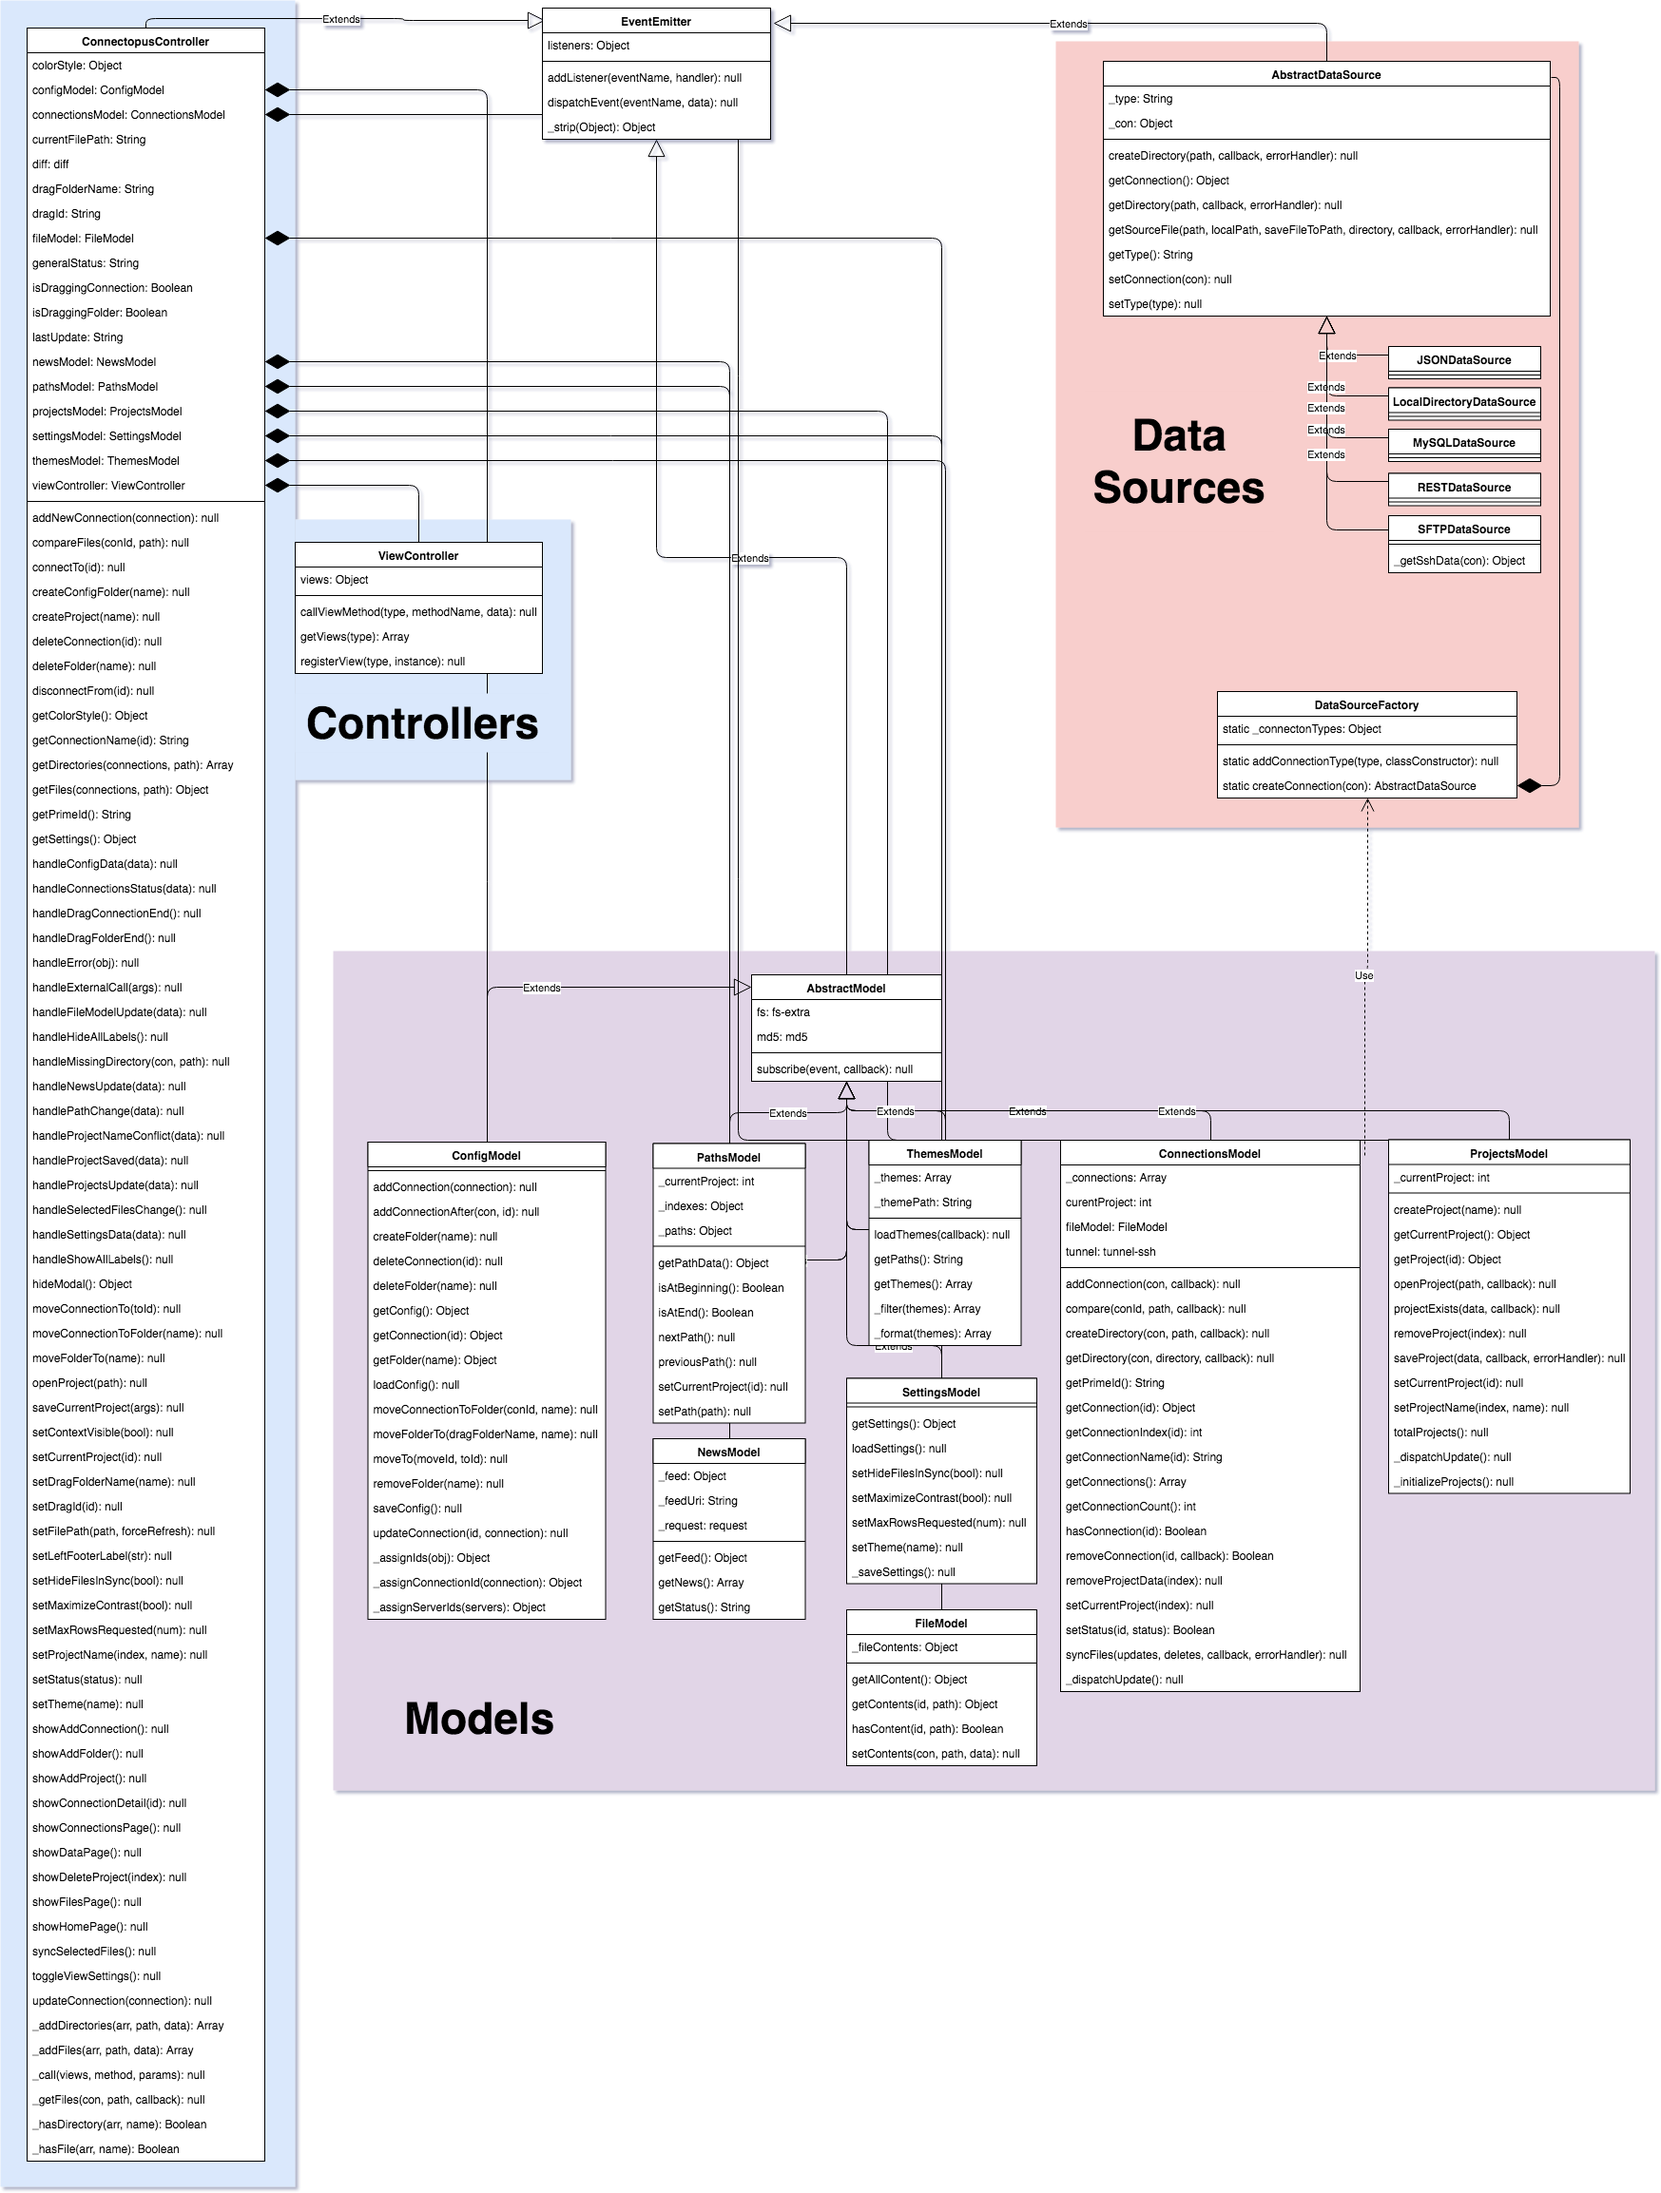
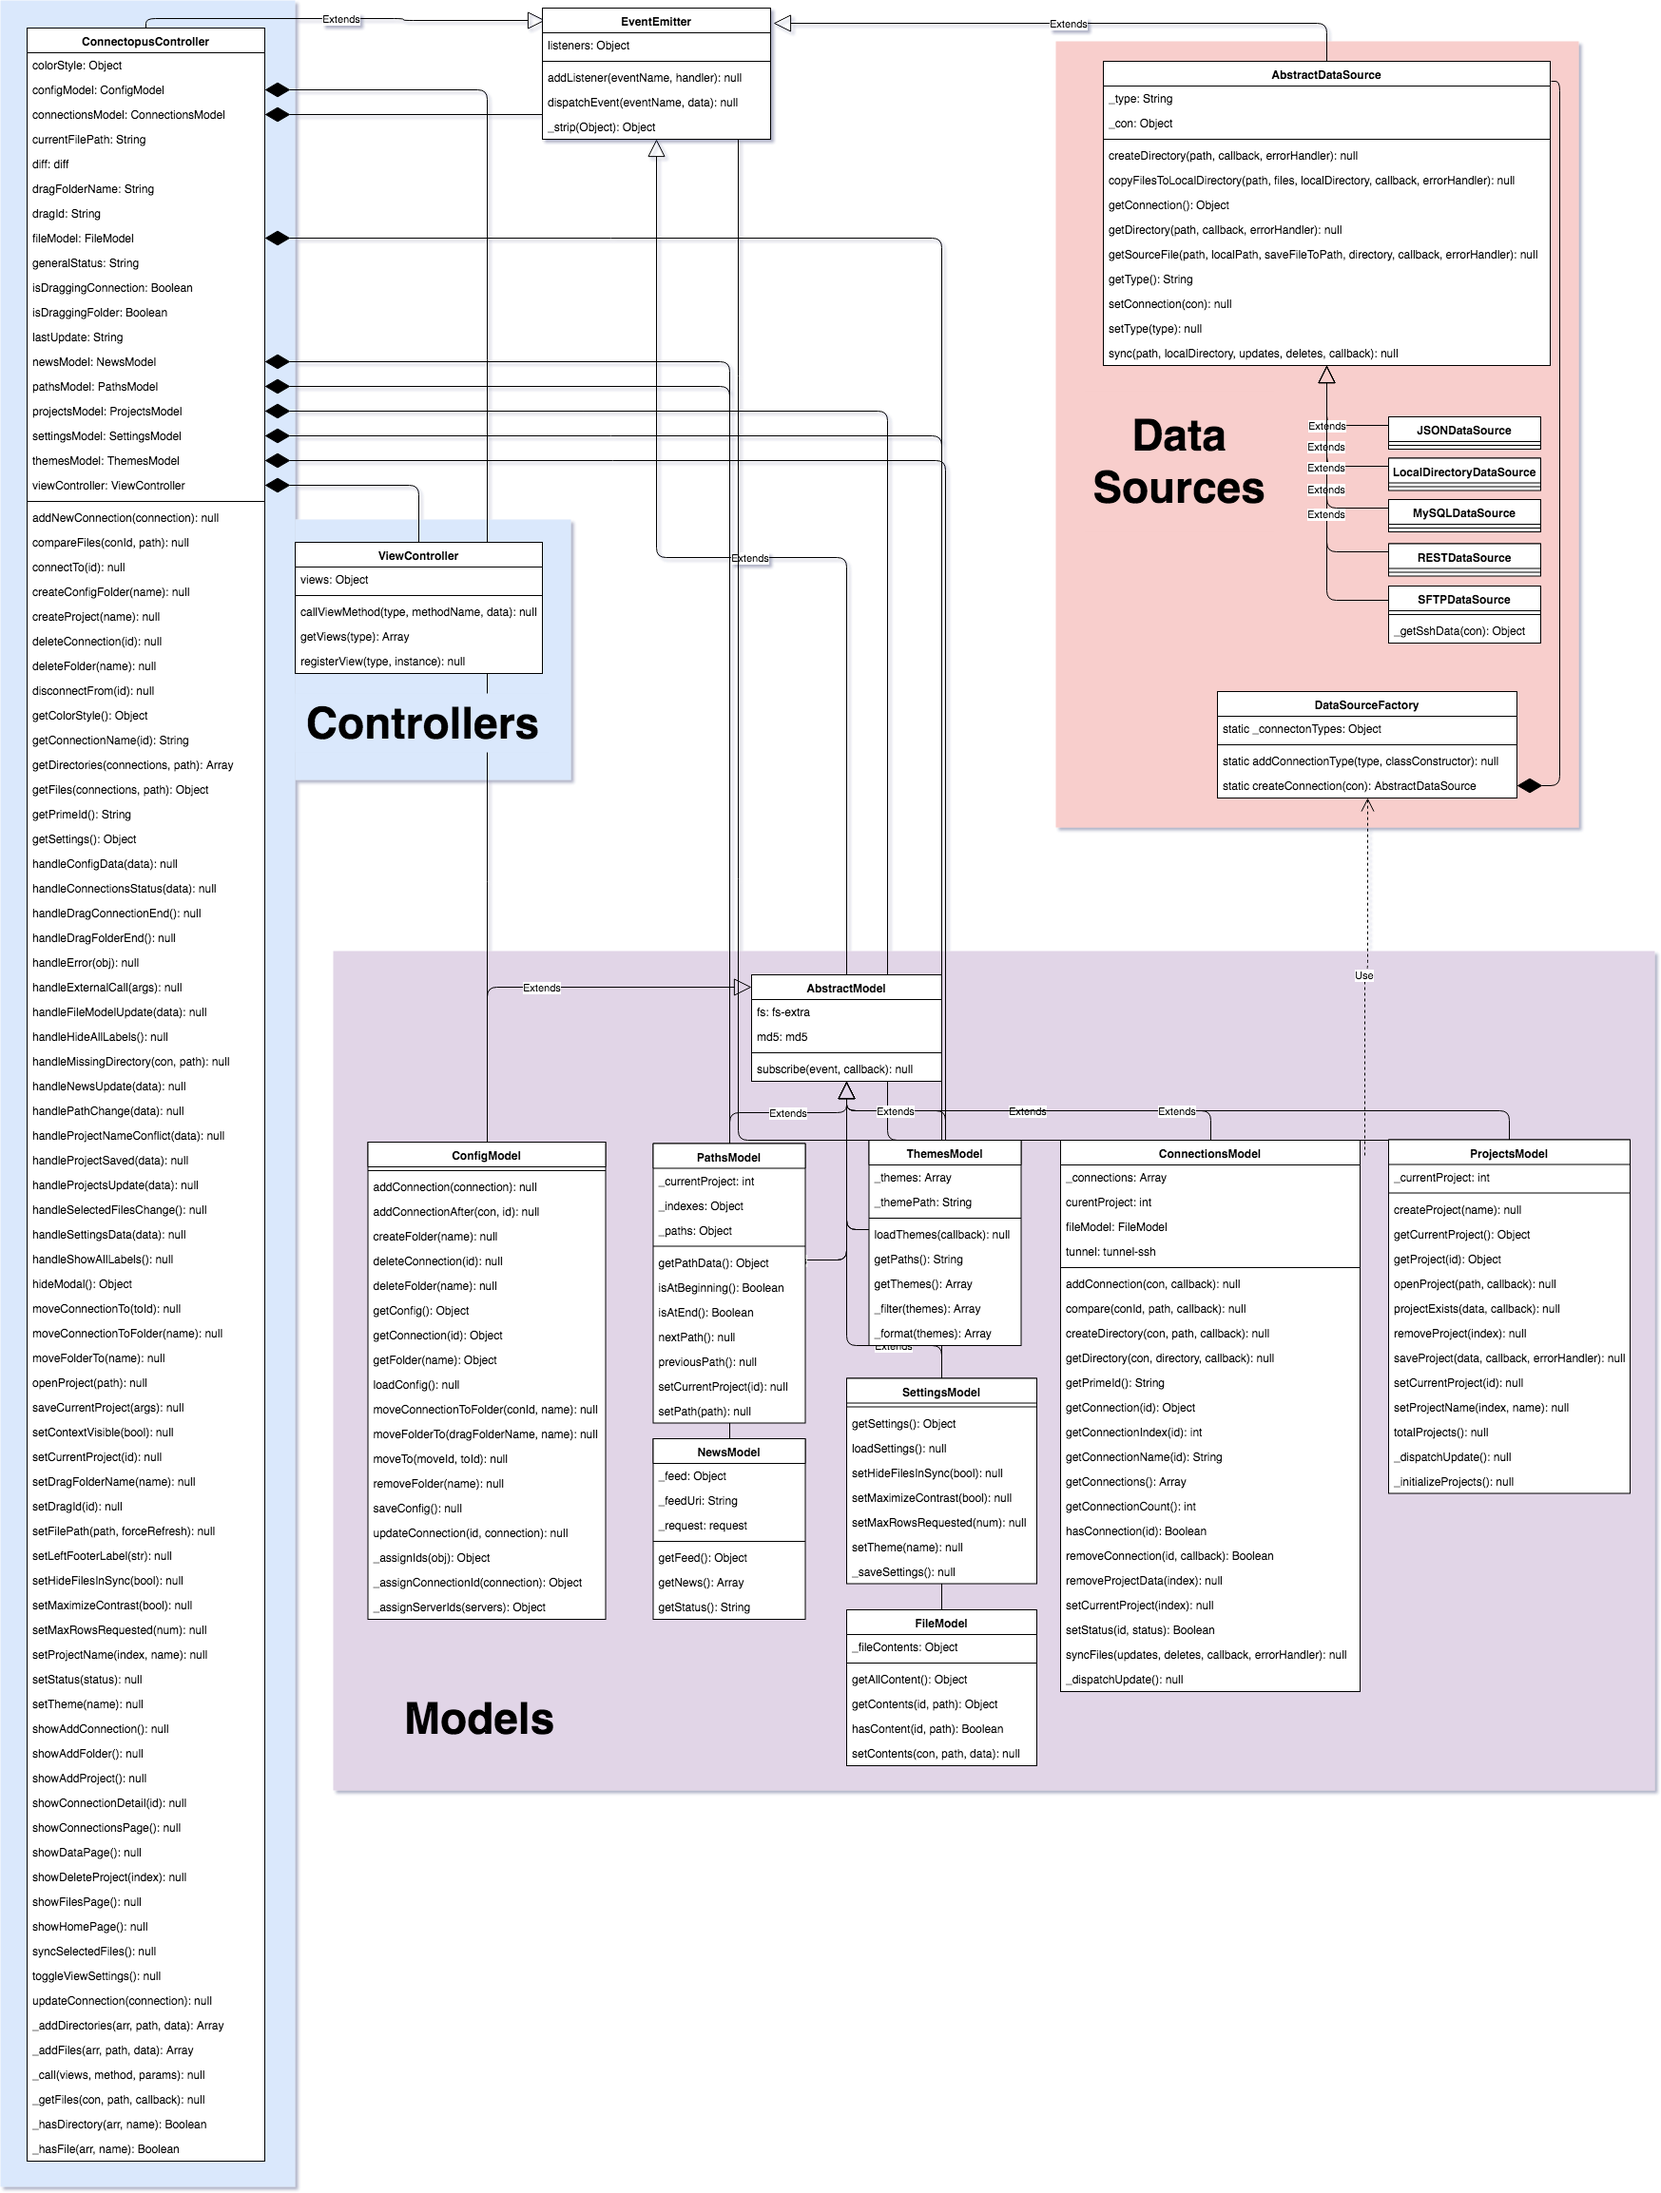
working on file sync

Changed region(s): [[0.6491, 0.0624, 0.9273, 0.3121]]

diff --git a/custom_modules/controllers/ConnectopusController.js b/custom_modules/controllers/ConnectopusController.js
@@ -41,6 +41,7 @@ module.exports = class ConnectopusController extends EventEmitter {
 			}
 		}.bind(this));
 		this.projectsDirectory = __dirname.split("custom_modules/controllers")[0] + "working_files/projects";
+		this.isInProcess = false;
 	}
 
 	addNewConnection(connection) {
@@ -90,9 +91,13 @@ module.exports = class ConnectopusController extends EventEmitter {
 	connectTo(id, callback) {
 		var con = this.configModel.getConnection(id);
 		if(con) {
-			this._call("modal-overlay", "showLoader");
+			if(!this.isInProcess) {
+				this._call("modal-overlay", "showLoader");
+			}
 			this.connectionsModel.addConnection(con, function(data) {
-				this._call("modal-overlay", "hide");
+				if(!this.isInProcess) {
+					this._call("modal-overlay", "hide");
+				}
 				if(callback) {
 					callback(data);
 				}
@@ -366,9 +371,13 @@ module.exports = class ConnectopusController extends EventEmitter {
 		this.configModel.moveFolderTo(this.dragFolderName, name);
 	}
 	openProject(path) {
+		this.isInProcess = true;
+		this._call("modal-overlay", "showLoader");
 		var proj = this.projectsModel.getCurrentProject();
 		var count = this.connectionsModel.getConnectionCount();
 		this.projectsModel.openProject(path, () => {
+			this._call("modal-overlay", "hide");
+			this.isInProcess = false;
 			if(count == 0 && proj.id == this.projectsModel._defaultProjectId) {
 				this.projectsModel.removeProject(proj.id);
 			}
@@ -577,7 +586,7 @@ module.exports = class ConnectopusController extends EventEmitter {
 		if(deletes.length) {
 			this._call("modal-overlay", "show", {
 				title: "File Delete Warning",
-				message: "During this file sync, you are going to delete the following downline files: " + deletes.toString(),
+				message: "During this file sync, you are going to delete the following downstream files: " + deletes.join(", "),
 				buttons: [
 					{label: "Cancel", class: "btn-warning", icon: "glyphicon glyphicon-ban-circle", callback: function() {
 						this.hideModal();

diff --git a/custom_modules/abstracts/AbstractDataSource.js b/custom_modules/abstracts/AbstractDataSource.js
@@ -6,34 +6,46 @@ module.exports = class AbstractDataSource extends EventEmitter {
 		this._con = con;
 	}
 
-	getType() {
-		return this._type;
+	copyFilesToLocalDirectory(path, files, localDirectory, callback, errorHandler) {
+		console.log("implement copyFilesToLocalDirectory in child class", this._con.name);
+		if(callback) {
+			callback();
+		}
 	}
-	setType(type) {
-		this._type = type;
-		this.dispatchEvent("change", this);
+	createDirectory(path, callback, errorHandler) {
+		console.log("implement createDirectory in child class", this._con.name);	
+		if(callback) {
+			callback();
+		}
 	}
 	getConnection() {
 		return this._strip(this._con);
 	}
-	setConnection(con) {
-		this._con = con;
-		this.dispatchEvent("change", this);
-	}
 	getDirectory(path, callback, errorHandler) {
-		console.log("implement getDirectory in child class", this._con.id);
+		console.log("implement getDirectory in child class", this._con.name);
 		if(callback) {
 			callback();
 		}
 	}
 	getSourceFile(path, localPath, saveFileToPath, directory, callback, errorHandler) {
-		console.log("implement getSourceFile in child class", this._con.id);
+		console.log("implement getSourceFile in child class", this._con.name);
 		if(callback) {
 			callback(saveFileToPath);
 		}
 	}
-	createDirectory(path, callback, errorHandler) {
-		console.log("implement createDirectory in child class", this._con.id);	
+	getType() {
+		return this._type;
+	}
+	setConnection(con) {
+		this._con = con;
+		this.dispatchEvent("change", this);
+	}
+	setType(type) {
+		this._type = type;
+		this.dispatchEvent("change", this);
+	}
+	sync(path, localDirectory, updates, deletes, callback) {
+		console.log("implement sync in child class", this._con.name);	
 		if(callback) {
 			callback();
 		}

diff --git a/custom_modules/models/ConnectionsModel.js b/custom_modules/models/ConnectionsModel.js
@@ -164,8 +164,32 @@ module.exports = class ConnectionsModel extends AbstractModel {
 		return false;
 	}
 	syncFiles(path, updates, deletes, callback, errorHandler) {
-		console.log(path, updates, deletes);
-		callback(path);
+		var dirName = __dirname.split("/custom_modules/models")[0];
+		var localDirectory = dirName + '/working_files/transfers';
+		var primeConnection = this.getConnection(this.getPrimeId());
+		var livePrimeConnection = DataSourceFactory.createConnection(primeConnection);
+		livePrimeConnection.copyFilesToLocalDirectory(path, updates, localDirectory, (result) => {
+			var totalConnections = this._connections[this.currentProject].length;
+			var currentConnection = 1;
+			if(totalConnections > 1) {
+				var pushUpdates = () => {
+					var liveCon = DataSourceFactory.createConnection(this._connections[this.currentProject][currentConnection]);
+					liveCon.sync(path, localDirectory, updates, deletes, () => {
+						++currentConnection;
+						if(currentConnection < totalConnections) {
+							pushUpdates();
+						} else {
+							if(callback) {
+								callback(result);
+							}
+						}
+					});
+				}
+				pushUpdates();
+			} else {
+				callback(result);
+			}
+		}, errorHandler);
 	}
 
 	_dispatchUpdate() {

diff --git a/css/structure.css b/css/structure.css
@@ -65,7 +65,7 @@ h3 {
 	left: 50px;
 	right: 0;
 	bottom: 26px;
-	top: 52px;
+	top: 26px;
 	font-size: 14pt;
 	z-index: 2;
 }
@@ -267,9 +267,7 @@ h3 {
 	cursor: pointer;
 }
 .connection-details, .add-connection-page{
-	padding: 1em;
-	border-radius: 5px;
-	margin-top: 1em;
+	padding: 2em;
 }
 .connection.is-prime.connected .glyphicon-star {
 	background: #0F0;
@@ -384,7 +382,7 @@ input {
 	border: 1px solid rgba(0, 0, 0, .25);
 }
 .active-connections .active-connection .glyphicon {
-    z-index: 5;
+    z-index: 4;
 }
 .active-connections .active-connection .glyphicon-star {
 	z-index: 5;
@@ -495,6 +493,7 @@ input {
 	background: rgba(255, 255, 255, .75);
 	border-radius: 50%;
 }
+
 .active-connection .status-icon {
 	z-index: 5;
 }
@@ -600,6 +599,10 @@ ul.directories li, ul.tables li {
 	padding-left: 70px;
 	min-height: 50px;
 	margin: auto;
+}
+.project-news .milestone:hover {
+	background: #555;
+	color: white;
 }
 .project-news .milestone .badge {
 	display: none;

diff --git a/custom_modules/data_sources/SFTPDataSource.js b/custom_modules/data_sources/SFTPDataSource.js
@@ -168,7 +168,39 @@ module.exports = class SFTPDataSource extends AbstractDataSource {
 			})
 		})
 	}
+	sync(path, localDirectory, updates, deletes, callback) {
+		var con = this._con;
+		var sshData = this._getSshData(con);
 
+		this.sftp.connect(sshData).then(() => {
+			var root = con.root ? con.root : '.';
+			var fullPath = root;
+			if(path) {
+				fullPath = root + '/' + path;
+			}
+			var ul = updates.length;
+			var updateFile = () => {
+				ul--;
+				if(ul >= 0) {
+					console.log("copy", fullPath + "/" + updates[ul]);
+					updateFile();
+				} else {
+					callback();
+				}
+			}
+			var dl = deletes.length;
+			var deleteFile = () => {
+				dl--;
+				if(dl >= 0) {
+					console.log("delete", fullPath + '/' + deletes[dl]);
+					deleteFile();
+				} else {
+					updateFile();
+				}
+			}
+			deleteFile();
+		})
+	}
 	_getSshData(con) {
 		var sshData = {
 			host: con.host,

diff --git a/custom_modules/data_sources/LocalDirectoryDataSource.js b/custom_modules/data_sources/LocalDirectoryDataSource.js
@@ -22,7 +22,18 @@ module.exports = class LocalDirectoryDataSource extends AbstractDataSource {
 			controller.handleError(err);
 		});
 	}
-
+	copyFilesToLocalDirectory(path, files, localDirectory, callback, errorHandler) {
+		this.fs.emptyDirSync(localDirectory);
+		var localPaths = [];
+		var l = files.length;
+		var lp;
+		for(var i = 0; i < l; i++) {
+			lp = localDirectory + "/" + files[i];
+			localPaths.push(lp);
+			this.fs.copySync(this._con.directory + "/" + files[i], lp);
+		}
+		callback({ files: files, path: path, localDirectory: localDirectory, localPaths: localPaths });
+	}
 	getDirectory(path, callback, errorHandler) {
 		var directoryAndPath;
 		if(path) {
